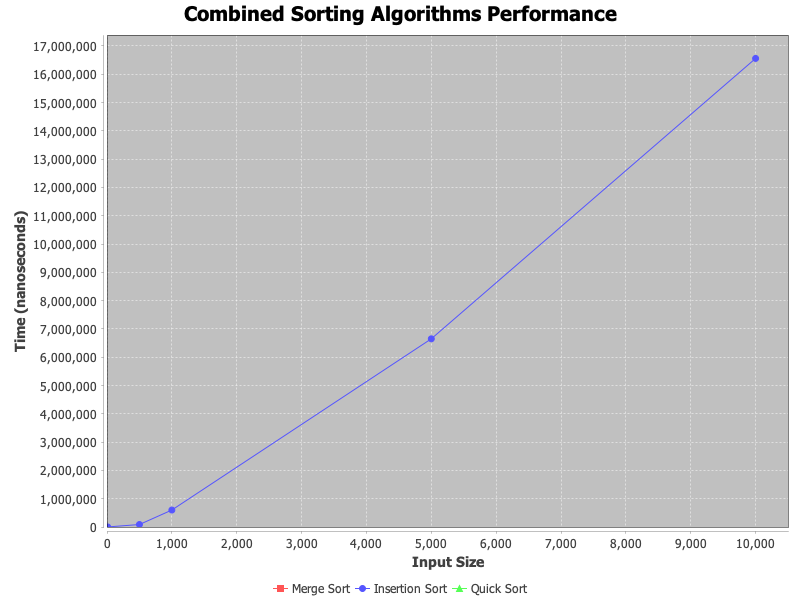
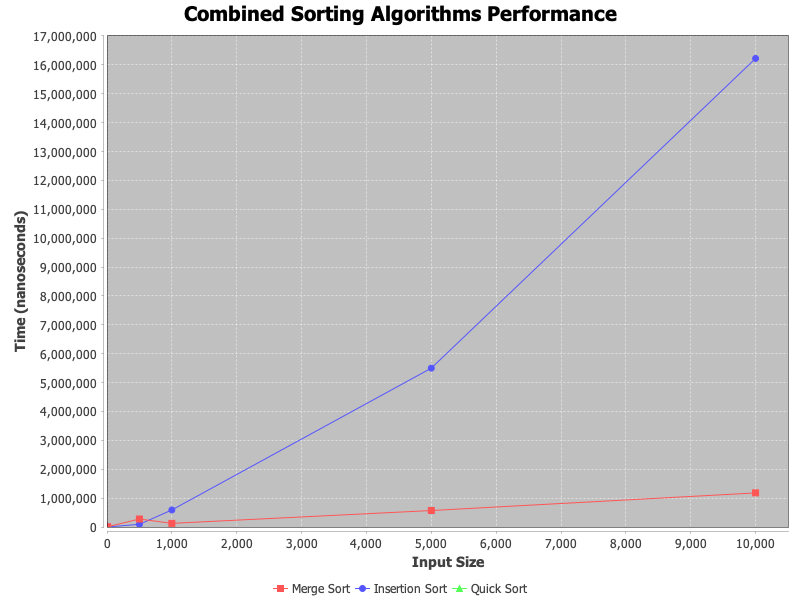
do merge sort :D

diff --git a/assignment1/src/Algorithms/MergeSort.java b/assignment1/src/Algorithms/MergeSort.java
@@ -1,7 +1,77 @@
-//package Algorithms;
-//
-//public class MergeSort {
-//    public static int doSort(int[] arr) {
-//
-//    }
-//}
+package Algorithms;
+
+public class MergeSort implements SortingAlgorithm {
+    public int doSort(int[] arr) {
+        int comparisons = 0;
+        
+        if (arr == null || arr.length <= 1) {
+            return comparisons;
+        }
+        
+        int[] temp = new int[arr.length];
+        comparisons = mergeSort(arr, temp, 0, arr.length - 1);
+        
+        return comparisons;
+    }
+    
+    private int mergeSort(int[] arr, int[] temp, int left, int right) {
+        int comparisons = 0;
+        
+        if (left < right) {
+            int mid = left + (right - left) / 2;
+            
+            // Sort left half
+            comparisons += mergeSort(arr, temp, left, mid);
+            
+            // Sort right half
+            comparisons += mergeSort(arr, temp, mid + 1, right);
+            
+            // Merge the sorted halves
+            comparisons += merge(arr, temp, left, mid, right);
+        }
+        
+        return comparisons;
+    }
+    
+    private int merge(int[] arr, int[] temp, int left, int mid, int right) {
+        int comparisons = 0;
+        
+        // Copy both parts into the temporary array
+        for (int i = left; i <= right; i++) {
+            temp[i] = arr[i];
+        }
+        
+        int i = left;      // Index for left subarray
+        int j = mid + 1;   // Index for right subarray
+        int k = left;      // Index for merged array
+        
+        // Merge the two subarrays
+        while (i <= mid && j <= right) {
+            comparisons++; // Count comparison
+            if (temp[i] <= temp[j]) {
+                arr[k] = temp[i];
+                i++;
+            } else {
+                arr[k] = temp[j];
+                j++;
+            }
+            k++;
+        }
+        
+        // Copy remaining elements from left subarray (if any)
+        while (i <= mid) {
+            arr[k] = temp[i];
+            i++;
+            k++;
+        }
+        
+        // Copy remaining elements from right subarray (if any)
+        while (j <= right) {
+            arr[k] = temp[j];
+            j++;
+            k++;
+        }
+        
+        return comparisons;
+    }
+}

diff --git a/assignment1/src/Main.java b/assignment1/src/Main.java
@@ -1,4 +1,5 @@
 import Algorithms.InsertionSort;
+import Algorithms.MergeSort;
 import Algorithms.SortingAlgorithm;
 import org.jfree.chart.ChartFactory;
 import org.jfree.chart.ChartUtils;
@@ -27,16 +28,17 @@ public class Main {
         algorithmResults.put("Quick Sort", new HashMap<>());
 
         InsertionSort insertionSort = new InsertionSort();
+        MergeSort mergeSort = new MergeSort();
 
         int[] warmUpArray = generateRandomArray(1000);
         insertionSort.doSort(warmUpArray);
 
         testAlgorithm("Insertion Sort", inputSizes, testArrays, insertionSort, algorithmResults);
-        // testAlgorithm("Merge Sort", inputSizes, testArrays, Main::mergeSort, algorithmResults);
+        testAlgorithm("Merge Sort", inputSizes, testArrays, mergeSort, algorithmResults);
         // testAlgorithm("Quick Sort", inputSizes, testArrays, Main::quickSort, algorithmResults);
 
         createScatterPlot(algorithmResults.get("Insertion Sort"), "Insertion Sort Performance", "Input Size", "Time (nanoseconds)", "InsertionSortScatterPlot.png");
-        // createScatterPlot(algorithmResults.get("Merge Sort"), "Merge Sort Performance", "Input Size", "Time (nanoseconds)", "MergeSortScatterPlot.png");
+         createScatterPlot(algorithmResults.get("Merge Sort"), "Merge Sort Performance", "Input Size", "Time (nanoseconds)", "MergeSortScatterPlot.png");
         // createScatterPlot(algorithmResults.get("Quick Sort"), "Quick Sort Performance", "Input Size", "Time (nanoseconds)", "QuickSortScatterPlot.png");
 
         createCombinedScatterPlot(algorithmResults, "Combined Sorting Algorithms Performance", "Input Size", "Time (nanoseconds)", "CombinedSortingAlgorithmsScatterPlot.png");
